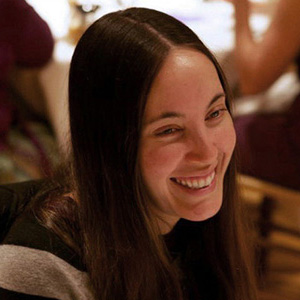
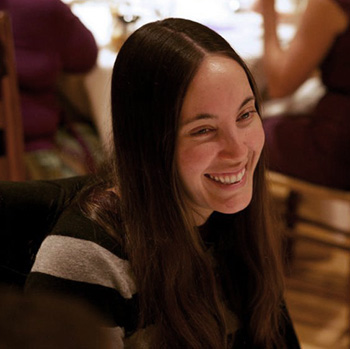
Update layout of More Info page for more visual interest

diff --git a/src/styles/components/_more-info.scss b/src/styles/components/_more-info.scss
@@ -1,19 +1,9 @@
-// about.scss
+// more-info.scss
 
 .more-info-page .primary {
-	display: flex;
-	margin: 0 auto (2 * $margin-default);
-	max-width: $layout-width;
-
-	@media (max-width: 1260px) {
-		margin-left: $margin-default;
-		margin-right: $margin-default;
-	}
+	margin: 0 auto;
 
 	@media (max-width: 1000px) {
-		text-align: center;
-		display: block;
-		margin: 0 auto;
 
 		.contact-body,
 		.about-body {
@@ -48,7 +38,18 @@
 	}
 }
 
+.emphasis {
+	font-weight: 700;
+}
+
 // CONTACT SECTION
+
+.secondary {
+	@media (max-width:400px) {
+		padding-left: $padding-small;
+		padding-right: $padding-small;
+	}
+}
 
 .contact-body {
   display: flex;
@@ -63,12 +64,19 @@
 	// }
 }
 
-.contact-header {
-	color: $dark-grey;
+.secondary .contact-header {
+	padding-bottom: 0;
+	text-align: center;
+}
+
+.contact-subheader {
+	text-align: center;
 }
 
 .contact-subsubheader {
 	border-bottom: none;
+	text-align: center;
+	margin-bottom: 0;
 }
 
 .contact-form-wrapper {
@@ -81,16 +89,13 @@
 	font-family: 'Montserrat';
 	border: 1px solid lighten($grey, 40%);
   border-radius: 2px;
-
-	@media (max-width: 1000px) {
-		max-width: 600px;
-		margin: 0 auto;
-		width: 100%;
-		border: none;
-	}
+	max-width: 600px;
+	margin: 0 auto;
+	width: 100%;
+	border: none;
 
 	@media (max-width: 400px) {
-		padding: 0;
+		padding: $padding-default 0 0;
 	}
 }
 
@@ -114,17 +119,17 @@
   @include rounded(2px);
 
   &::-webkit-input-placeholder {
-		color: lighten($grey, 20%);
+		color: darken($off-white, 5%);
 	}
 
   &[type="text"], &[type="email"] {
 		font-family: 'Montserrat', sans-serif;
 		background-color: rgba(255, 255, 255, .3);
 		border: .5px solid lighten($grey, 40%);
-		box-shadow: inset 1px 1px 0 .5px rgba(0,0,0,.3);
+		box-shadow: inset 1px 1px 0 .5px rgba(0,0,0,.01);
 
 		&:focus {
-			outline: .5px solid $blue;
+			outline: .5px solid $off-white;
 		}
   }
 
@@ -172,11 +177,11 @@
 	text-indent: 0;
 	background-color: rgba(255, 255, 255, .3);
 	border: .5px solid lighten($grey, 40%);
-	box-shadow: inset 1px 1px 0 .5px rgba(0,0,0,.3);
+	box-shadow: inset 1px 1px 0 .5px rgba(0,0,0,.05);
 	@include rounded(2px);
 	
 	&:focus {
-		outline: .5px solid $blue;
+		outline: .5px solid $off-white;
 	}
 
 	&:placeholder-shown {
@@ -185,7 +190,7 @@
 	}
 
 	&::-webkit-input-placeholder {
-		color: lighten($grey, 20%);
+		color: darken($off-white, 5%);
 	}
 }
 
@@ -224,17 +229,9 @@
 // ABOUT SECTION
 
 .about-body {
-	display: flex;
-	justify-content: center;
-	flex-flow: column wrap;
-	align-items: flex-start;
 	max-width: $layout-width;
-	flex: 0 1 50%;
-	margin-right: $margin-default;
-
-	@media(max-width: 1000px) {
-		margin-right: 0;
-	}
+	margin: 0 auto;
+	padding: 0 $padding-default;
 }
 
 .about-header-wrapper {
@@ -244,35 +241,76 @@
 
 .about-header {
 	margin-top: 0;
-	color: $dark-grey;
-}
-
-.about-hero {
-	width: 100%;
-	max-width: 300px;
-	margin: 0 auto;
-	@include rounded(50%);
-	@include shadowed;
-}
-
-.about-resume {
 	margin-bottom: $margin-default;
-}
+	color: $dark-grey;
 
-.about-copy {
-	margin-top: $margin-default;
-
-	@media (max-width: 1000px) {
-		flex-direction: column;
-		align-items: center;
-		justify-content: center;
-		width: 100%;
+	@media(max-width: 400px) {
+		margin-bottom: (.5 * $margin-small);
 	}
 }
 
+.about-resume {
+	font-style: normal;
+}
+
+.about-content {
+	display: inline-flex;
+	align-items: center;
+	justify-content: center;
+	margin: 0 auto;
+
+	@media (max-width: 1000px) {
+		flex-direction: column;
+
+		.about-hero-wrapper, .about-copy {
+			flex-basis: 100%;
+		}
+
+		.about-hero {
+			margin-right: 0;
+			align-self: center;
+		}
+
+		.about-copy {
+			margin-top: $margin-default;
+		}
+	}
+}
+
+.about-hero {
+	margin-right: $margin-default;
+	flex-basis: 34%;
+	flex-grow: 1;
+	align-self: stretch;
+	@include rounded(2px);
+	@include shadowed;
+
+	@media (max-width: 600px) {
+		max-width: 250px;
+	}
+}
+
+.about-subsubheader {
+	text-align: left;
+	margin-bottom: 0;
+	border-bottom: 0;
+}
+
+.about-subsubheader.second {
+	box-sizing: border-box;
+	margin-top: $margin-default;
+}
+
+.about-copy {
+	flex-basis: 66%;
+	flex-grow: 1;
+	flex-shrink: 1;
+}
+
 .about-project-description {
+	box-sizing: border-box;
 	max-width: 600px;
-	margin: 0 auto (.75 * $margin-small);
+	margin: (.75 * $margin-small) 0;
 	text-align: left;
 
 	&:last-child {

diff --git a/src/scripts/components/MoreInfo.jsx b/src/scripts/components/MoreInfo.jsx
@@ -12,38 +12,29 @@ class MoreInfo extends React.Component {
       <div>
         <section className='primary'>
           <div className='about-body'>
-            <div className='about-header-wrapper'>
-              <h2 className='about-header'>Say What?</h2>
-              <h3 className='about-subheader'>I am a<br/>designer, developer & engineer.</h3>
-              <p className='about-resume'><a target='_blank' href='/work/bianca-danforth-resume.pdf'>View my resume</a></p>
-              <img
-                className='about-hero'
-                src='../images/bianca.jpg'
-              />
-            </div>
-            <div className='about-copy'>
+            <h1 className="about-header">About</h1>
+            <h2>Bianca, Wearer of Multiple Hats*</h2>
+            <h3 className="about-subheader"> *Hats not shown | <a className="about-resume" target='_blank' href='/work/bianca-danforth-resume.pdf'>View my resume</a></h3>
+          <div className="about-content">
+            <img className="about-hero" src="images/bianca.jpg" />
+            <div className="about-copy">
+              <h4 className="about-subsubheader">How I got here</h4>
               <p className='about-project-description'>
-                When I went to college, like most students, I had no idea what I wanted to do. All I knew was that I wanted to do <strong>something challenging and worthwhile</strong>. I chose to study mechanical engineering.
+                <span className="emphasis">I love a challenge</span>, which is why I chose to study mechanical engineering in college. Now, I have found something equally challenging, but that I enjoy even more: web design and development.
               </p>
-              <p className='about-project-description'>
-                Several years later I have found something that is not only challenging and worthwhile, but <strong>that I enjoy doing</strong> even more: web design and development.
-              </p>
-              <div className='blockquote-wrapper'>
-                <blockquote>
-                  <div className='open-quote' dangerouslySetInnerHTML={{__html: quoteSVG}} />
-                  In many ways, I'm doing what I have always done: thinking critically and creatively, solving problems, and rolling up my sleeves to get the work done.
-                  <div className='close-quote' dangerouslySetInnerHTML={{__html: quoteSVG}} />
-                </blockquote>
-              </div>
               <p className='about-project-description'>
                 In many ways, I'm doing what I have always done: thinking critically and creatively, solving problems, and rolling up my sleeves to get the work done.
               </p>
+              <h4 className="about-subsubheader second">Other interests</h4>
               <p className='about-project-description'>
-                Other things I find challenging and worthwhile include: <strong>hiking</strong> with my dog, Mia, <strong>fixing things</strong> around the house and <strong>volunteering</strong> for political organizations whose ideas I believe in.
+                I enjoy <span className="emphasis">hiking</span> with my dog, Mia, <span className="emphasis">fixing things</span> around the house and <span className="emphasis">volunteering</span> for community outreach organizations like Women Who Code.
               </p>
             </div>
           </div>
-          <ContactForm isRecaptchaScriptLoaded={ this.props.isRecaptchaScriptLoaded } />
+        </div>
+        </section>
+        <section className="secondary">
+        <ContactForm isRecaptchaScriptLoaded={ this.props.isRecaptchaScriptLoaded } />
         </section>
       </div>
     )

diff --git a/src/styles/common/_footer.scss b/src/styles/common/_footer.scss
@@ -75,14 +75,14 @@ footer.to-do-list-page,
 footer.e-mail-sign-up-page,
 footer.ferrofluid-pool-page,
 footer.twist-page,
-footer.lightbeam-page {
+footer.lightbeam-page,
+footer.more-info-page {
 	@include diagonal-background-bottom;
 }
 
 
 // These pages do NOT have or are not directly next to a .secondary <section>
 footer.thank-you-page,
-footer.more-info-page,
 footer.home-page {
 	margin-top: (2 * $margin-default);
 	text-align: center;

diff --git a/src/scripts/components/ContactForm.jsx b/src/scripts/components/ContactForm.jsx
@@ -48,7 +48,7 @@ class ContactForm extends React.Component {
 
     return(
       <div className='contact-body' ref='contact-form'>
-        <h2 className='contact-header'>Say Hello!</h2>
+        <h1 className='contact-header'>Contact</h1>
         <h3 className='contact-subheader'>
           biancadanforth at gmail dot com
         </h3>

diff --git a/src/styles/common/_primary-section.scss b/src/styles/common/_primary-section.scss
@@ -29,6 +29,7 @@ main.to-do-list-page .primary,
 main.e-mail-sign-up-page .primary,
 main.ferrofluid-pool-page .primary,
 main.twist-page .primary,
-main.lightbeam-page .primary {
+main.lightbeam-page .primary,
+main.more-info-page .primary {
 	@include diagonal-background-top;
 }
